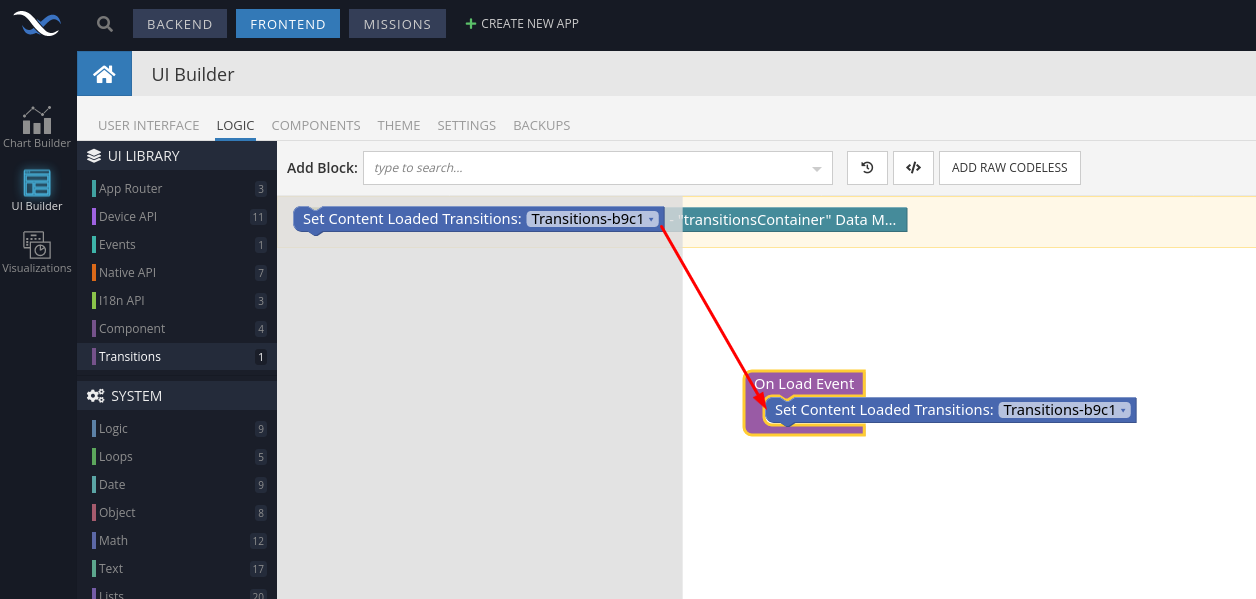
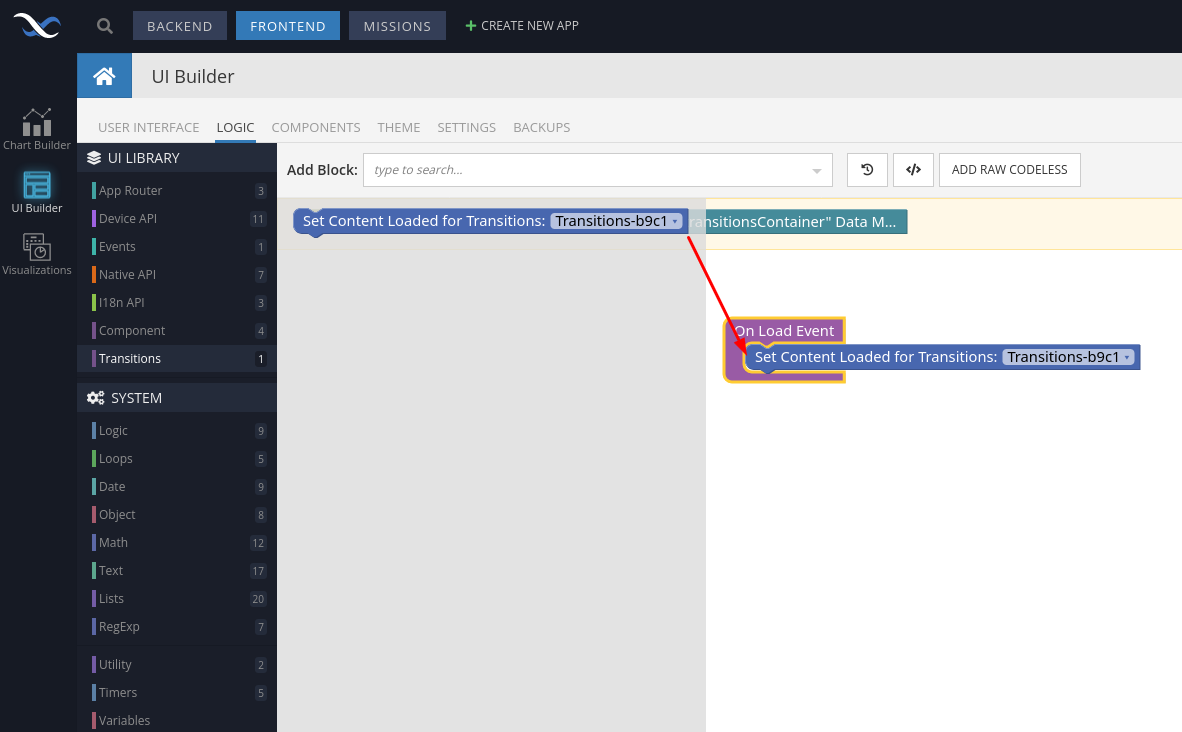
refactored README.md

Changed region(s): [[0.0, 0.0, 1.0, 1.0]]

diff --git a/components/bl-transitions-component/README.md b/components/bl-transitions-component/README.md
@@ -26,7 +26,8 @@ The component based on external [Transitions](https://mui.com/material-ui/transi
 <img alt="Add component on page" src="./example-images/add_on_page.jpg" width="900" />
 
 ### Adding component in the transitions pod:
-> #### WARNING: If you add any Image component, set its width and height. This is generally good practice for all images on a website
+> 🔴 **IMPORTANT**: If you add any Image component, set its width and height. This is generally good practice for all images on a website
+
 <img alt="Add component in transitions" src="./example-images/add_component_in_transitions.jpg" width="900" />
 
 Now you can open the preview and see the mount animation when the page loads.
@@ -54,13 +55,14 @@ For example:
 In the preview, you now have the option to change the visibility of the component with animation by clicking on either the Close or Open button.
 
 ### Adding component with dynamic content in transition
-It can come in handy when animating a block that requires some time to render completely. To good utilize the Collapse Top and Collapse Left effects, it's important to employ this guid.
-1. Firstly, you need activate it in the settings:
+If you want to animate content that is rendered with a delay (for example, asynchronously loaded) follow the guide:
 
-> WARNING: After this action the component will not be displayed
+1. You need activate it in the settings:
+
+> WARNING: After this action the component will not be displayed in preview mode
 
 <img alt="Close button logic" src="example-images/enable_dynamic_content.jpg" />
 
-2. Secondly, your block must have event that triggered when he full loaded. In him, we add component action "Set Content Loaded"
+2. Run the action `Set Content Loaded` when your components are fully rendered. It could be done in `On ... Mount handlers`.
 
 <img alt="Close button logic" src="example-images/add_setContentLoaded_in_onLoadEvent.jpg" width="900" />
